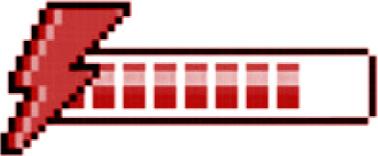
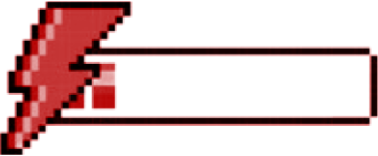
energy bar

diff --git a/main.py b/main.py
@@ -35,11 +35,19 @@ SCREEN_HEIGHT = 700
 player_x = 400
 player_y = 500
 player_velocity_y = 0
-energy_level = 100
+energy_level = 119
+energy_x = 400
+energy_y = 50
 screen = pygame.display.set_mode((SCREEN_WIDTH, SCREEN_HEIGHT))
-
+energy6 = pygame.image.load(os.path.join("Assets", "energy6.png"))
+energy5 = pygame.image.load(os.path.join("Assets", "energy5.png"))
+energy4 = pygame.image.load(os.path.join("Assets", "energy4.png"))
+energy3 = pygame.image.load(os.path.join("Assets", "energy3.png"))
+energy2 = pygame.image.load(os.path.join("Assets", "energy2.png"))
+energy1 = pygame.image.load(os.path.join("Assets", "energy1.png"))
 player_left = pygame.image.load(os.path.join("Assets", "player_left.png"))
 player_right = pygame.image.load(os.path.join("Assets", "player_right.png"))
+energy_sprite = pygame.transform.scale(energy6, (125,75))
 player = pygame.transform.scale(player_left, (100, 100))  # Initialize player as left-facing
 
 bg = pygame.image.load(os.path.join("Assets", "bg.png"))
@@ -52,6 +60,9 @@ font = pygame.font.Font(None, 36)
 
 def draw_player(x, y):
     screen.blit(player, (x, y))
+
+def draw_energy(x, y):
+    screen.blit(energy_sprite, (x, y))
 
 def draw_charges_and_tiles():
     charge1.draw(screen)
@@ -70,14 +81,12 @@ def draw_charges_and_tiles():
     tile7.draw(screen)
     tile8.draw(screen)
     tile9.draw(screen)
-    energy_sprite.draw(screen)
 
 
 clock = pygame.time.Clock()
 gravity = 1
 jump_velocity = -22
 run = True
-energy_sprite = Energy(400,50, "energy6.png") 
 charge1 = Charge(250, 400, "charge.png")
 charge2 = Charge(200, 400, "charge.png")
 charge3 = Charge(150, 400, "charge.png")
@@ -102,6 +111,7 @@ while run:
     screen.blit(moon, (0, 600))
     draw_player(player_x, player_y)
     draw_charges_and_tiles()
+    draw_energy(energy_x, energy_y)
 
     player_rect = player.get_rect(topleft=(player_x, player_y))  # Move this line here
 
@@ -116,6 +126,18 @@ while run:
         player_velocity_y += gravity
 
     speed = 5
+    if energy_level >= 100:
+        energy_sprite = pygame.transform.scale(energy6, (125,50))
+    elif energy_level >= 80:
+        energy_sprite = pygame.transform.scale(energy5, (125,50))
+    elif energy_level >= 60:
+        energy_sprite = pygame.transform.scale(energy4, (125,50))
+    elif energy_level >= 40:
+        energy_sprite = pygame.transform.scale(energy3, (125,50))
+    elif energy_level >= 20:
+        energy_sprite = pygame.transform.scale(energy2, (125,50))
+    elif energy_level < 20:
+        energy_sprite = pygame.transform.scale(energy1, (125,50))    
 
     for event in pygame.event.get():
         if event.type == pygame.QUIT:
@@ -124,6 +146,9 @@ while run:
         if event.type == pygame.KEYDOWN:
             if event.key == pygame.K_w and player_y >= 500:
                 player_velocity_y = jump_velocity
+            if event.key == pygame.K_SPACE and energy_level != 0:
+                energy_level -= 20
+
 
     pressed_keys = pygame.key.get_pressed()
     if pressed_keys[pygame.K_a]:
